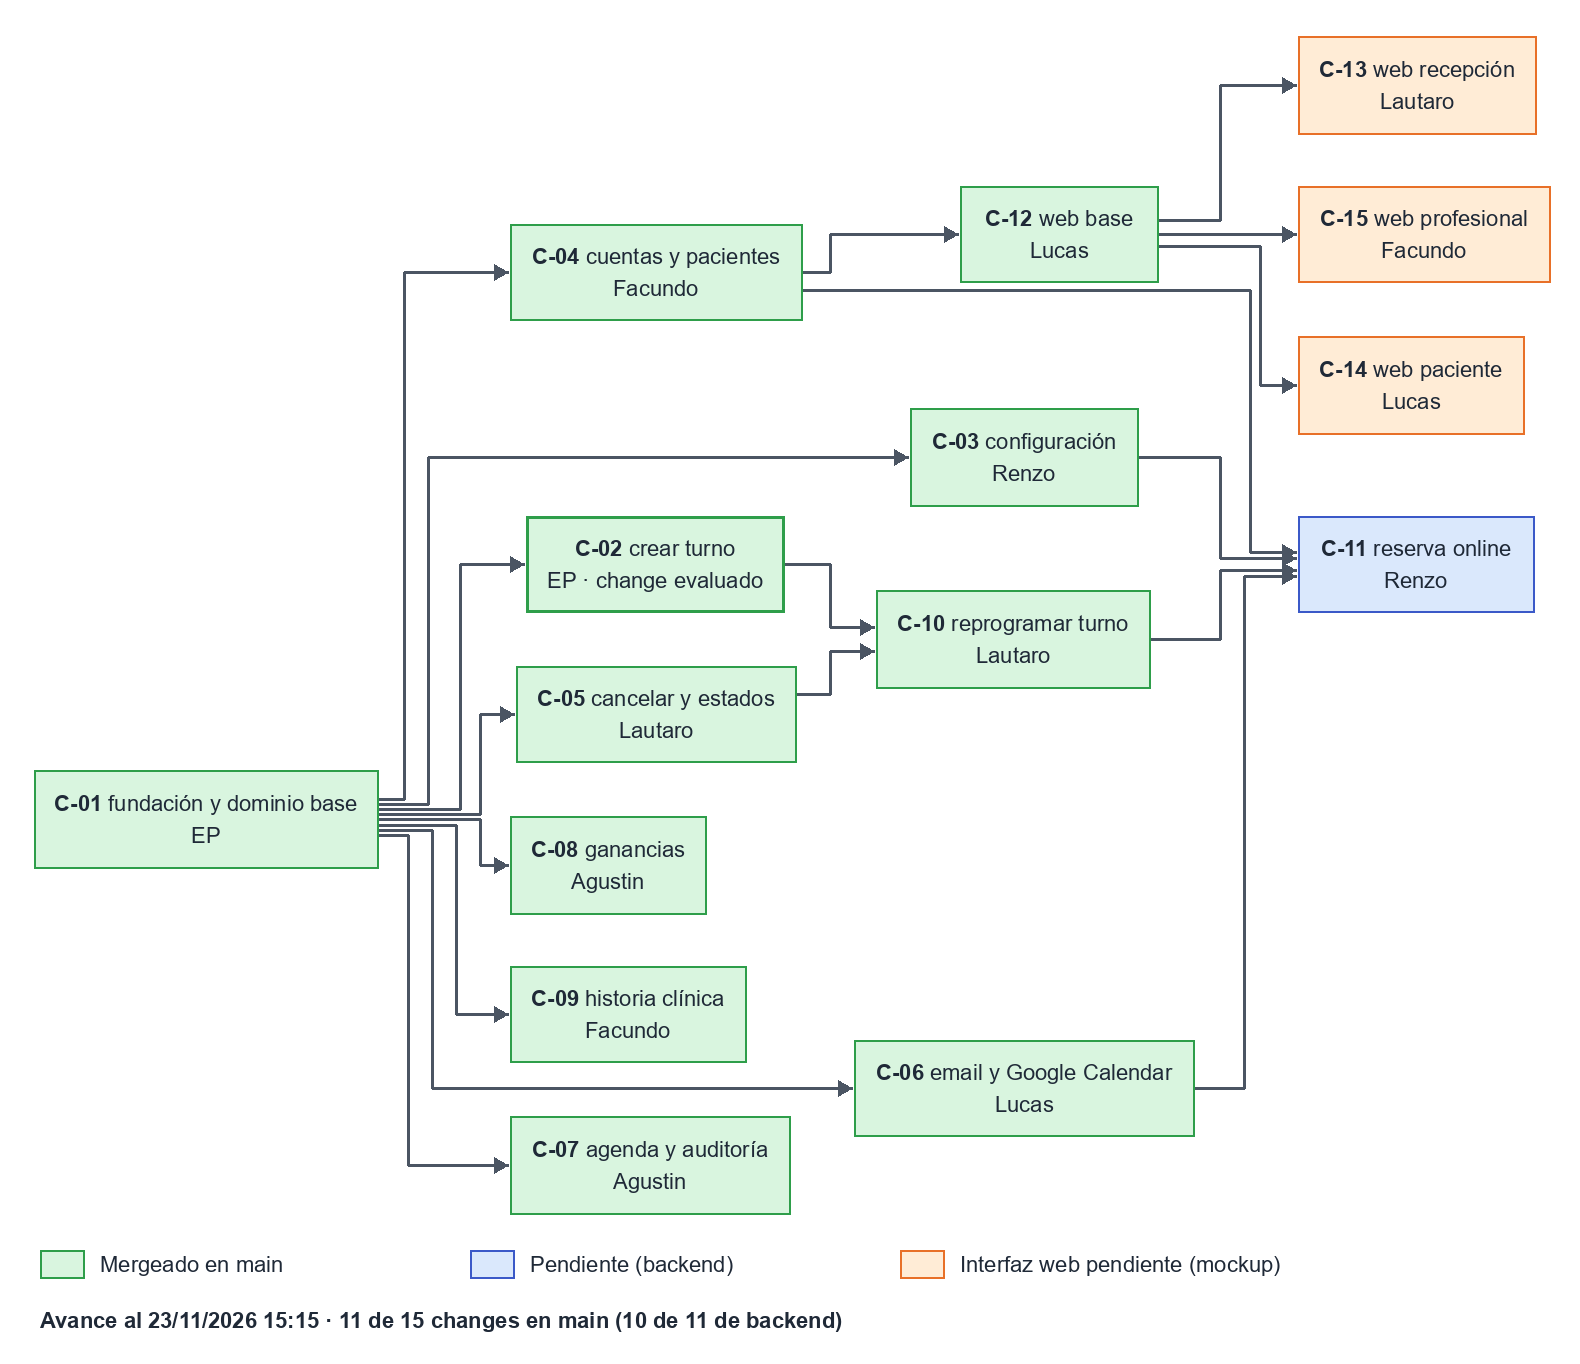
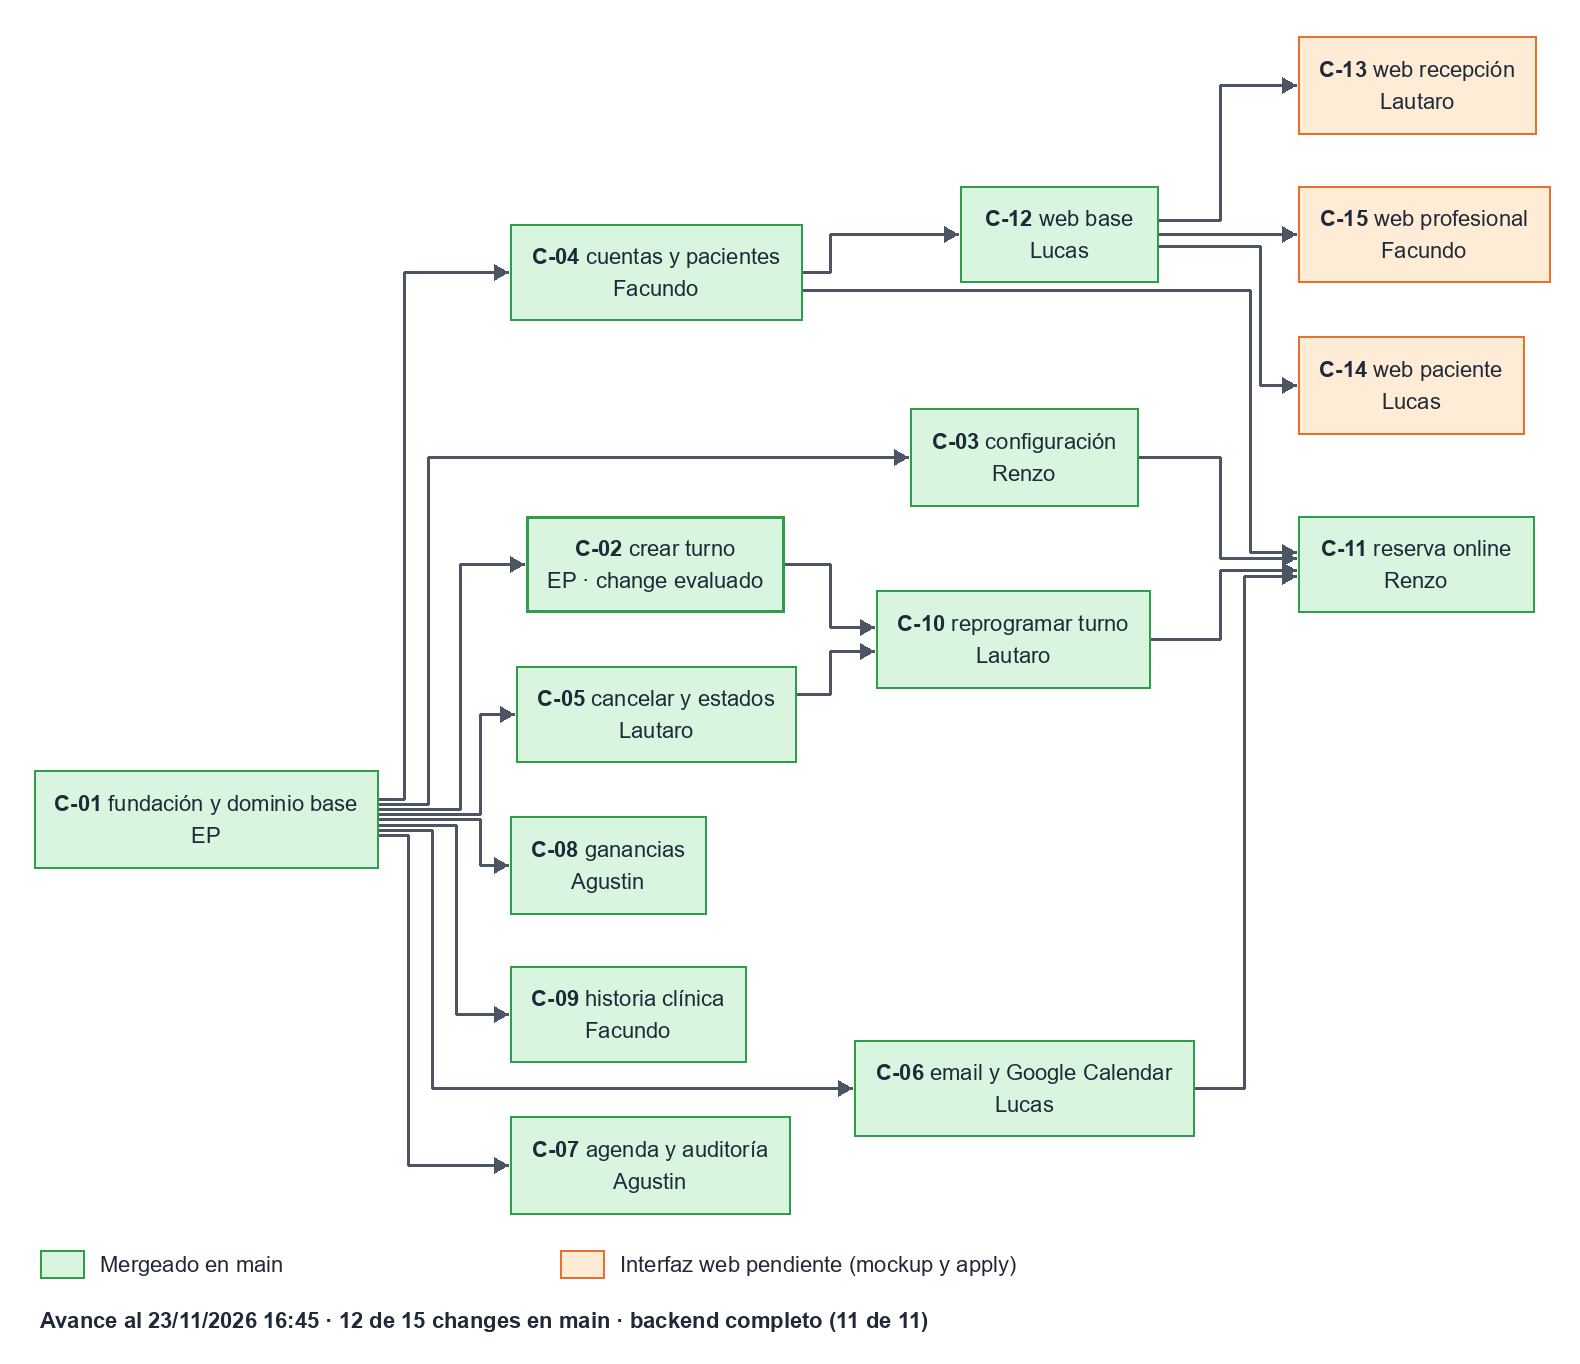
docs(roadmap): marcar C-11 como mergeado en main (backend completo)
Actualiza la imagen del avance: 12 de 15 changes en main, 11 de 11 de backend.

Changed region(s): [[0.2171, 0.893, 0.8063, 0.9853], [0.8063, 0.3695, 0.9924, 0.4619]]

diff --git a/CHANGES.md b/CHANGES.md
@@ -399,7 +399,7 @@ Decidido en D.3 y en `knowledge-base/01`: recordatorios y confirmación por What
   - `knowledge-base/07_flujos_principales.md` §F-02
 
 ### [C-11] `reserva-y-autogestion-paciente`
-- **Estado**: `[ ]` pendiente
+- **Estado**: `[x]` mergeado en `main` (2026-11-23)
 - **Responsable**: Renzo · **Capability**: `reserva-online` · **Prioridad**: P1 · US-020, US-021
 - **Scope**:
   - `GET /api/public/disponibilidad?prestacionId&desde&hasta[&profesionalId]` → huecos libres (horario − bloqueos − turnos activos, para profesional y box, en la grilla de 15 min), solo de prestaciones reservables y sin datos de otros pacientes (RN-RE-01).
